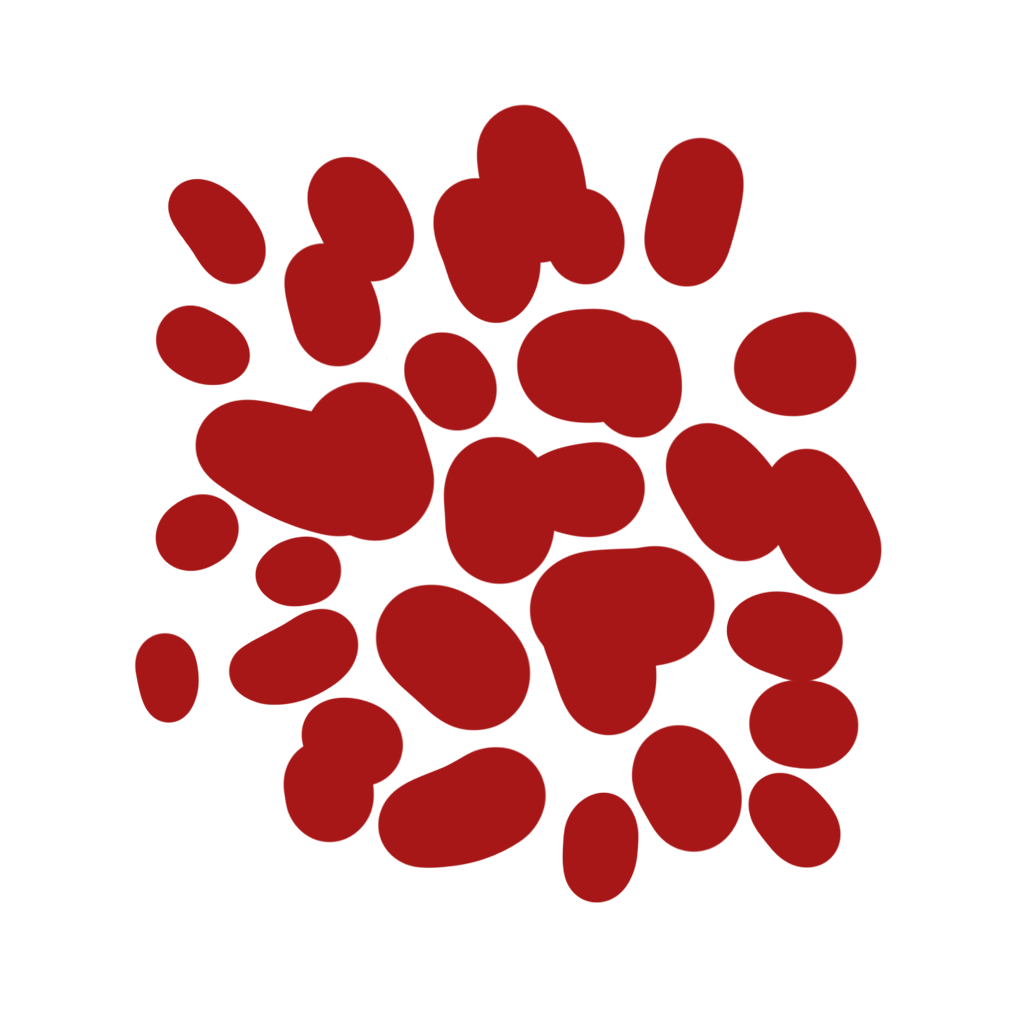
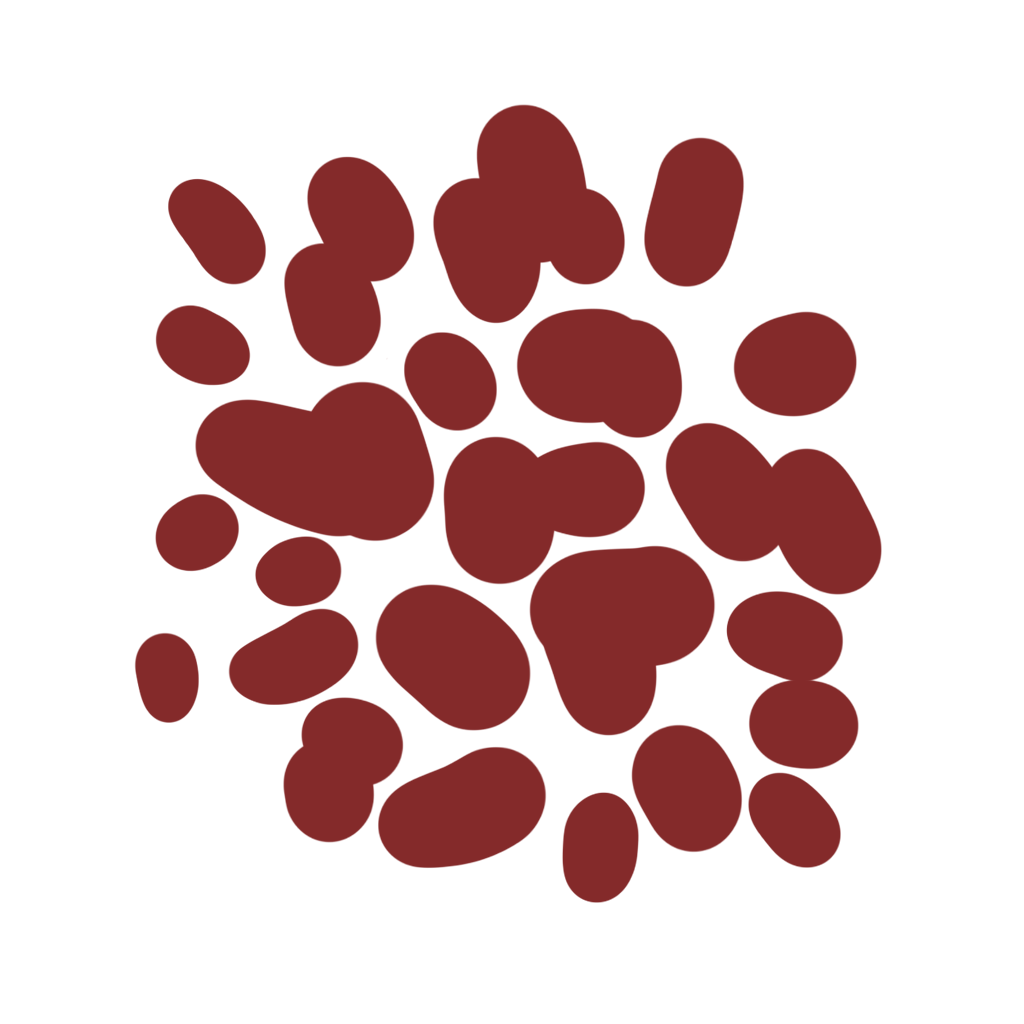
Added new Bush Scene

Changed region(s): [[0.125, 0.0938, 0.875, 0.9062]]

diff --git a/scripts/board/BoardManager.cs b/scripts/board/BoardManager.cs
@@ -45,7 +45,7 @@ public partial class BoardManager : Node3D, ISerializationListener
 	};
 	private static readonly string[] DefaultOuterDetailScenePaths =
 	{
-		"res://assets/models/stylized_nature/Bush_Common.gltf",
+		"res://scenes/board/plants/bush_common_2.tscn",
 		"res://assets/models/stylized_nature/Bush_Common_Flowers.gltf",
 		"res://assets/models/stylized_nature/Flower_3_Group.gltf",
 		"res://assets/models/stylized_nature/Mushroom_Common.gltf"
